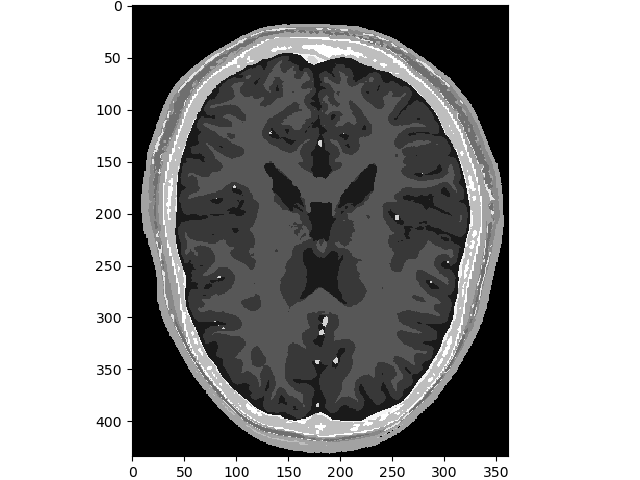
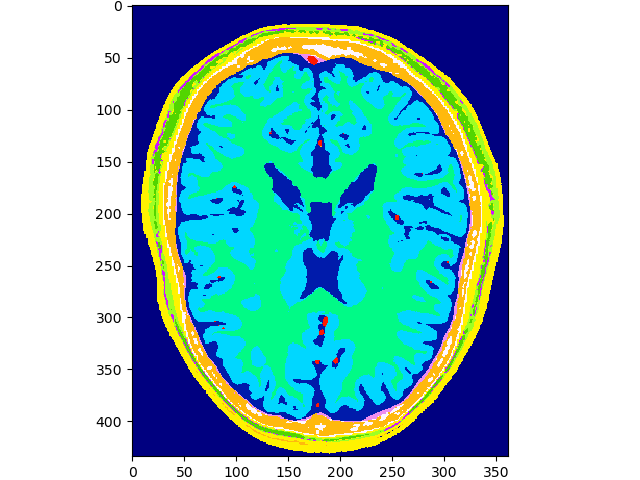
bump version and update documentation

diff --git a/python/brainweb/__init__.py b/python/brainweb/__init__.py
@@ -2,4 +2,4 @@ from .utils import *
 from .utils import __all__
 __author__ = "Casper O. da Costa-Luis <casper.dcl@physics.org>"
 __licence__ = __license__ = "[MPLv2.0](https://www.mozilla.org/MPL/2.0)"
-__version__ = "0.2.1"
+__version__ = "0.3.0"

diff --git a/python/brainweb/README.rst b/python/brainweb/README.rst
@@ -37,8 +37,8 @@ exist.
 
     from __future__ import print_function, division
     %matplotlib notebook
-    from utils import volshow
-    import utils as brainweb
+    import brainweb
+    from brainweb import volshow
     import numpy as np
     from os import path
     from tqdm.auto import tqdm
@@ -53,19 +53,14 @@ Raw Data
     # download
     files = brainweb.get_files()
 
-    # read
-    data = []
-    for f in tqdm(files, desc="Uncompressing into memory", unit="subject"):
-        data.append(brainweb.load_file(f))
-
-.. code:: python
+    # read last file
+    data = brainweb.load_file(files[-1])
 
     # show last subject
     print(files[-1])
-    volshow(data[-1]);
+    volshow(data, cmaps=['gist_ncar']);
 
-
-.. parsed-literal::
+::
 
     ~/.brainweb/subject_54.bin.gz
 
@@ -90,30 +85,34 @@ Convert raw image data:
 
     brainweb.seed(1337)
 
-    with tqdm(total=len(files), desc="mMR ground truths", unit="subject") as progress:
-        for (f, vol) in zip(files, data):
-            cache = f.replace('.bin.gz', '.npz')
-            vol = brainweb.get_mmr(cache, vol,
-                                   petNoise=1, t1Noise=0.75, t2Noise=0.75,
-                                   petSigma=1, t1Sigma=1, t2Sigma=1)
-            progress.update()
+    for f in tqdm(files, desc="mMR ground truths", unit="subject"):
+        vol = brainweb.get_mmr_fromfile(
+            f,
+            petNoise=1, t1Noise=0.75, t2Noise=0.75,
+            petSigma=1, t1Sigma=1, t2Sigma=1)
 
 .. code:: python
 
     # show last subject
-    #f = files[-1].replace('.bin.gz', '.npz')
-    #vol = np.load(f)
     print(f)
     volshow([vol['PET' ][:, 100:-100, 100:-100],
              vol['uMap'][:, 100:-100, 100:-100],
              vol['T1'  ][:, 100:-100, 100:-100],
              vol['T2'  ][:, 100:-100, 100:-100]],
-            cmaps=["hot", "bone", "Greys_r", "Greys_r"],
+            cmaps=['hot', 'bone', 'Greys_r', 'Greys_r'],
             titles=["PET", "uMap", "T1", "T2"]);
 
-
-.. parsed-literal::
+::
 
     ~/.brainweb/subject_54.bin.gz
 
 .. image:: mMR.png
+
+.. code:: python
+
+    # add some lesions
+    brainweb.seed(1337)
+    im3d = brainweb.add_lesions(vol['PET'])
+    volshow(im3d[:, 100:-100, 100:-100], cmaps=['hot']);
+
+.. image:: lesions.png
